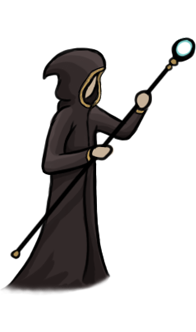
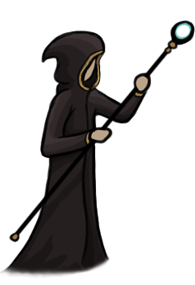
Add in some of Sammy's art and start laying out in code.

diff --git a/Classes/GameScene.cpp b/Classes/GameScene.cpp
@@ -11,6 +11,12 @@
 
 Game *Game::instance = nullptr;
 
+static struct {
+	float background_height;
+	float content_begin_x;
+	float content_end_x;
+} layout;
+
 Game *Game::get() {
 	return instance;
 }
@@ -49,13 +55,37 @@ bool Game::init() {
                        __/ |                                
                       |___/
 */
-	auto soil = Color4F(142/255.f,101/255.f,49/255.f, 255/255.f);
-	auto grass = Color4F(48/255.f,114/255.f,39/255.f, 255/255.f);
-	auto sky = Color4F(177/255.f,240/255.f,243/255.f, 255/255.f);
-	auto background = DrawNode::create();
-	background->drawSolidRect(Vec2::ZERO, Vec2(visibleSize), soil);
-	// The rest of the background is drawn after grid
-	this->addChild(background);
+	// Scenery
+	{
+		auto sprite = Sprite::createWithSpriteFrameName("ui/scenery.png");
+		sprite->setAnchorPoint(Vec2(0, 1));
+		sprite->setPosition(Vec2(0, getContentSize().height));
+		// Set scale so that scenery takes up the whole width
+		float targetWidth = getContentSize().width;
+		float actualWidth = sprite->getContentSize().width;
+		sprite->setScale(targetWidth/actualWidth);
+		this->addChild(sprite);
+		
+		layout.background_height = sprite->getBoundingBox().size.height;
+	}
+	
+	// Columns
+	{
+		auto sprite = Sprite::createWithSpriteFrameName("ui/column_right.png");
+		sprite->setAnchorPoint(Vec2(1, 1));
+		sprite->setPosition(Vec2(getContentSize().width, getContentSize().height - layout.background_height));
+		this->addChild(sprite);
+		
+		layout.content_end_x = getContentSize().width - sprite->getBoundingBox().size.width;
+	}
+	{
+		auto sprite = Sprite::createWithSpriteFrameName("ui/column_left.png");
+		sprite->setAnchorPoint(Vec2(0, 1));
+		sprite->setPosition(Vec2(0, getContentSize().height - layout.background_height));
+		this->addChild(sprite);
+		
+		layout.content_begin_x = sprite->getBoundingBox().size.width;
+	}
 
 /*
             _     _ 
@@ -67,18 +97,17 @@ bool Game::init() {
   __/ |             
  |___/              
 */
-    this->grid = new Grid(GRID_WIDTH, GRID_HEIGHT);
+    this->grid = new Grid(GRID_WIDTH, GRID_HEIGHT, layout.content_end_x - layout.content_begin_x - 10);
     cocos2d::Vec2 gridSize = this->grid->getSize();
-    //this->grid->setAnchorPoint(gridSize / 2);
-    float grid_x = visibleSize.width / 2;
-    float grid_y = gridSize.y / 2 + 20;
+	float grid_x = getContentSize().width / 2;
+    float grid_y = (getContentSize().height - layout.background_height) / 2;
     this->grid->setPosition(grid_x, grid_y);
 	grid->active = true;
     this->addChild(this->grid);
 	
 	// More background (must be done after grid because of sizing)
-	background->drawSolidRect(Vec2(0, grid_y + gridSize.y/2 + 20), Vec2(visibleSize.width, grid_y + gridSize.y/2 + 60), grass);
-	background->drawSolidRect(Vec2(0, grid_y + gridSize.y/2 + 60), Vec2(visibleSize.width, visibleSize.height), sky);
+	//background->drawSolidRect(Vec2(0, grid_y + gridSize.y/2 + 20), Vec2(visibleSize.width, grid_y + gridSize.y/2 + 60), grass);
+	//background->drawSolidRect(Vec2(0, grid_y + gridSize.y/2 + 60), Vec2(visibleSize.width, visibleSize.height), sky);
 
 /*
  _                      _
@@ -105,14 +134,14 @@ bool Game::init() {
 		auto scroll = DrawNode::create();
 		scroll->drawSolidRect(Vec2(0, -spellHeight/2), Vec2(margin/2, spellHeight/2), brown);
 		scroll->setPosition(0, grid_y - yoffset);
-		this->addChild(scroll);
+		//this->addChild(scroll);
 		
 		if (inventory.size() > i) {
 			auto sprite = inventory[i]->mininode;
 			sprite->setPosition(margin/4, grid_y - yoffset);
 			// TODO : Set scale that allows spell to fit completely in the scroll
 			//sprite->setScale(1.f);
-			this->addChild(sprite);
+		//	this->addChild(sprite);
 		}
 	}
 	// Right-hand inventory
@@ -122,7 +151,7 @@ bool Game::init() {
 		auto scroll = DrawNode::create();
 		scroll->drawSolidRect(Vec2(0, -spellHeight/2), Vec2(margin/2, spellHeight/2), brown);
 		scroll->setPosition(visibleSize.width - margin/2, grid_y - yoffset);
-		this->addChild(scroll);
+		//this->addChild(scroll);
 		
 		if (inventory.size() > 3 + i) {
 			auto sprite = inventory[3 + i]->mininode;
@@ -133,7 +162,7 @@ bool Game::init() {
 			// Dialogs::closeAll();
 			// TODO : Set scale that allows spell to fit completely in the scroll
 			//sprite->setScale(1.f);
-			this->addChild(sprite);
+		//	this->addChild(sprite);
 		}
 	}
 	
@@ -145,23 +174,18 @@ bool Game::init() {
 | (__| | | | (_| | | | (_| | (__| ||  __/ |  \__ \
  \___|_| |_|\__,_|_|  \__,_|\___|\__\___|_|  |___/
 */
-	float chars_y_start = grid_y + gridSize.y/2 + 60;
+	float chars_y_start = getContentSize().height - layout.background_height;
 	//float chars_y_end = visibleSize.height;
 	// TODO : Check there is room...
 	// Wizard
-	auto wizardsprite = Sprite::createWithSpriteFrameName("characters/wizard_body.png");
-	wizardsprite->setAnchorPoint(Vec2::ZERO);
+	auto wizardsprite = Sprite::createWithSpriteFrameName("characters/wizard.png");
+	wizardsprite->setAnchorPoint(Vec2(0, 0));
 	wizardsprite->setPosition(10, chars_y_start);
 	wizard->sprite = wizardsprite;
 	this->addChild(wizardsprite);
 	
-	auto armfront = Sprite::createWithSpriteFrameName("characters/wizard_arm_front.png");
-	armfront->setAnchorPoint(Vec2(0.5f, 1));
-	armfront->setPosition(10 + wizardsprite->getContentSize().width / 2, chars_y_start + wizardsprite->getContentSize().height / 2);
-	this->addChild(armfront);
-	
 	// Goblins
-	auto evilwizard = Sprite::createWithSpriteFrameName("characters/evil_wizard.png");
+	auto evilwizard = Sprite::createWithSpriteFrameName("characters/goblin_01.png");
 	evilwizard->setAnchorPoint(Vec2(1, 0));
 	evilwizard->setPosition(this->getContentSize().width - 10, chars_y_start);
 	this->addChild(evilwizard);

diff --git a/Classes/Grid.cpp b/Classes/Grid.cpp
@@ -15,17 +15,19 @@
 #define GEM_ANIMATION_TIME      0.1f
 #define COLUMN_STAGGER_AMOUNT   0.2f
 #define ROW_STAGGER_AMOUNT      0.1f
-#define GEM_CENTRAL_SENSITIVITY 0.5f
+//#define GEM_CENTRAL_SENSITIVITY 0.5f
+#define GEM_CENTRAL_SENSITIVITY 2
 #define SINGLE_BACKWARDS        1
+#define ORTHOGONAL_ONLY         1
 
-Grid::Grid(int w, int h) {
+Grid::Grid(int w, int h, float maxwidth) {
     this->width = w;
     this->height = h;
     
     // Fill with default constructed gems
     grid = new Gem*[w*h];
     
-    init();
+    init(maxwidth);
 }
 Grid::~Grid() {
     for (int i = 0; i < width * height; i++) {
@@ -65,7 +67,7 @@ cocos2d::Vec2 Grid::getSize() {
 	return cocos2d::Vec2(width * Gem::getWidth(), height * Gem::getHeight());
 }
 
-bool Grid::init()
+bool Grid::init(float maxwidth)
 {
     if ( !Layer::init() )
     {
@@ -76,11 +78,8 @@ bool Grid::init()
 	line->setPosition(cocos2d::Vec2::ZERO);
 	this->addChild(line, 1);
 	
-	// pick max scale to fit on screen
-	float spellMargins = 70; // save about 100px for spells
-	cocos2d::Size visibleSize = cocos2d::Director::getInstance()->getVisibleSize() - cocos2d::Size(spellMargins, 0);
 	Gem::scale = 1;
-	float ratio = visibleSize.width/(Gem::getWidth() * width);
+	float ratio = maxwidth/(Gem::getWidth() * width);
 	Gem::scale = MIN(ratio, 1.2f);
 	
     // Setup the gems, and them to us
@@ -230,7 +229,13 @@ void Grid::onTouchMoved(cocos2d::Touch *touch, cocos2d::Event *unused_event) {
 				}
 				if (!unique) {
 					// Check we are actually going adjacent!
-					if (abs(chain->i - column) <= 1 && abs(chain->j - row) <= 1) {
+					bool allowed = true;
+#if ORTHOGONAL_ONLY
+					if (abs(chain->i - column) == 1 && abs(chain->j - row) == 1) {
+						allowed = false;
+					}
+#endif
+					if (abs(chain->i - column) <= 1 && abs(chain->j - row) <= 1 && allowed) {
 						Chain *oldChain = chain;
 						chain = new Chain;
 						chain->next = oldChain;

diff --git a/Classes/GameController.cpp b/Classes/GameController.cpp
@@ -10,6 +10,7 @@
 #include "MainMenu.hpp"
 #include "GameScene.hpp"
 #include "LevelSelect.hpp"
+#include "Constants.h"
 
 GameController *GameController::instance = nullptr;
 
@@ -30,7 +31,8 @@ void GameController::init(Scene *root) {
 	
 	instance->state = kStateMainMenu;
 	
-	auto grad = LayerGradient::create(Color4B(24,   24,  24,  255), Color4B(46,   46,  46,  255), Vec2(0, -1));
+	auto grad = LayerColor::create();
+	grad->initWithColor(Color4B(Colours::BACKGROUND));
 	grad->setPosition(Director::getInstance()->getVisibleOrigin());
 	grad->setContentSize(Director::getInstance()->getVisibleSize());
 	root->addChild(grad);

diff --git a/Classes/Gem.cpp b/Classes/Gem.cpp
@@ -14,10 +14,10 @@ void Gem::init(GemType type) {
 	didInit = true;
 	const char *element;
 	switch (type) {
-		case AIR: element = "gems/air.png"; break;
-		case EARTH: element = "gems/earth.png"; break;
-		case FIRE: element = "gems/fire.png"; break;
-		case WATER: element = "gems/water.png"; break;
+		case AIR: element = "gems/air_01.png"; break;
+		case EARTH: element = "gems/earth_01.png"; break;
+		case FIRE: element = "gems/fire_01.png"; break;
+		case WATER: element = "gems/water_01.png"; break;
 		case NONE: /*hopefully won't happen!*/ break;
 	}
 	this->type = type;

diff --git a/Classes/Grid.hpp b/Classes/Grid.hpp
@@ -13,9 +13,9 @@ struct Chain {
 
 class Grid : public cocos2d::Layer {
 public:
-    Grid(int w, int h);
+    Grid(int w, int h, float width);
     Gem *get(int column, int row);
-    bool init();
+    bool init(float width);
 	bool active;
 	void scramble();
     cocos2d::Vec2 getSize();

diff --git a/Classes/AppDelegate.cpp b/Classes/AppDelegate.cpp
@@ -91,7 +91,8 @@ bool AppDelegate::applicationDidFinishLaunching() {
 	
 	auto scene = Scene::create();
 	GameController::init(scene);
-    
+	GameController::get()->setState(kStateGame);
+	
     // run
     director->runWithScene(scene);
 

diff --git a/Classes/Constants.h b/Classes/Constants.h
@@ -13,4 +13,8 @@ namespace Fonts {
 	const std::string MAIN_FONT = "fonts/powerhouse-era.ttf";
 };
 
+namespace Colours {
+	const Color3B BACKGROUND(46,42,36);
+};
+
 #endif /* Constants_h */

diff --git a/Classes/Gem.hpp b/Classes/Gem.hpp
@@ -17,6 +17,7 @@ struct Gem {
     bool didInit = false;
     void init();
 	void init(GemType type);
+	
 	static float getWidth();
 	static float getHeight();
 	static float scale;
